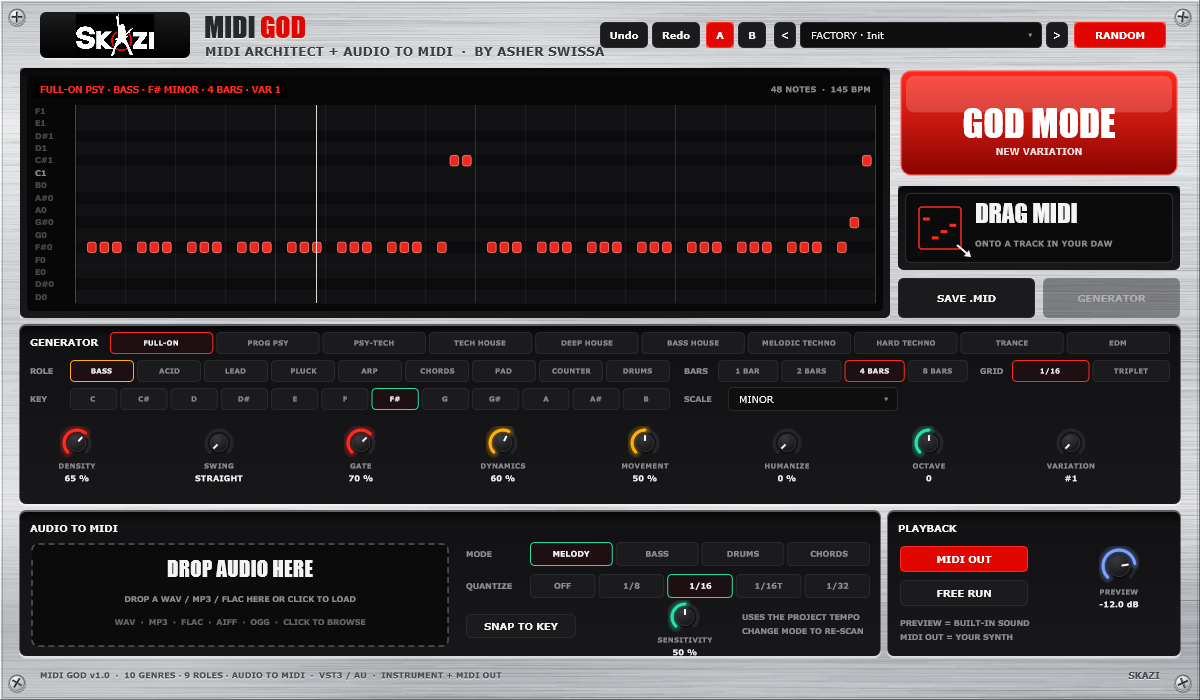
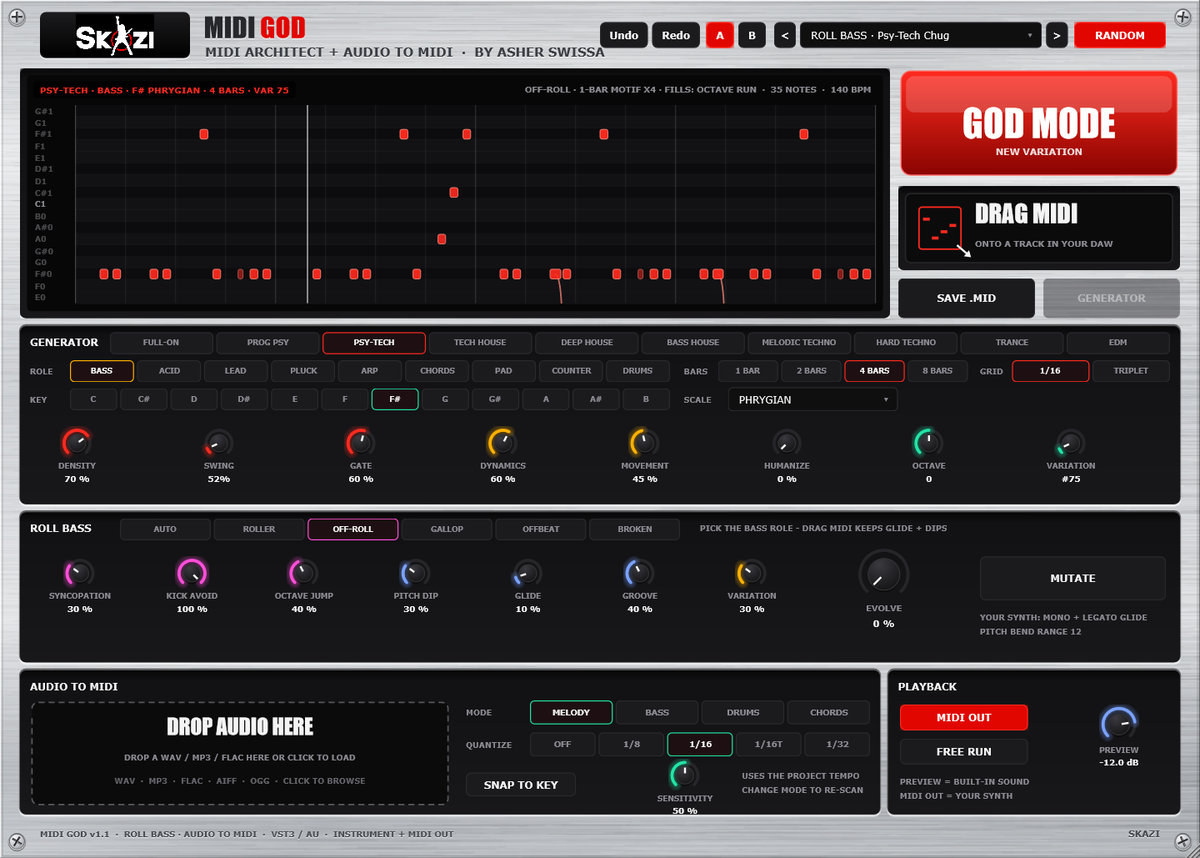
Page: MIDI GOD 1.1 screenshot with ROLL BASS [skip ci]

diff --git a/docs/index.html b/docs/index.html
@@ -314,7 +314,7 @@
           <p>A tempo-synced chopper (stutter, reverse, gate, tape stop, hold) that sits first, middle or last in the chain, with drive, bitcrush, a resonant filter with synced LFO, ring mod, flanger, chorus, ping-pong delay and reverb. RISE builds long pitch rises over 2 to 16 bars, up to 4 octaves, starting and ending on your bar lines. MAKE A SALAT throws a random mix together.</p>
           <div class="chips"><span class="chip hot">104 presets</span><span class="chip">MAKE A SALAT</span><span class="chip">RISE up to 4 octaves</span><span class="chip">Chop · drive · crush</span><span class="chip">Delay · reverb</span></div></div></article>
 
-      <article class="card"><div class="pic"><span class="badge inst">New · MIDI</span><img src="img/midigod.png?v=1" alt="MIDI GOD" class="zoom" loading="lazy"></div>
+      <article class="card"><div class="pic"><span class="badge inst">New · MIDI</span><img src="img/midigod.png?v=2" alt="MIDI GOD" class="zoom" loading="lazy"></div>
         <div class="body"><h3>MIDI <em>GOD</em></h3><div class="sub">MIDI pattern generator + audio to MIDI</div>
           <p>Writes basslines, acid lines, leads, plucks, arps, chords, pads and drums in 10 genres from full-on psy to hard techno, in your key and groove. GOD MODE rolls a new variation, then drag the loop straight onto a track in your DAW. New in 1.1: ROLL BASS writes rolling basslines with glide, pitch dips, octave jumps and groove, and MUTATE keeps the line while changing a few notes. Drop in audio and it turns melody, bass, drums or chords into MIDI.</p>
           <div class="chips"><span class="chip hot">126 presets</span><span class="chip">ROLL BASS</span><span class="chip">10 genres x 9 roles</span><span class="chip">Drag MIDI to the DAW</span><span class="chip">Audio to MIDI</span></div></div></article>
